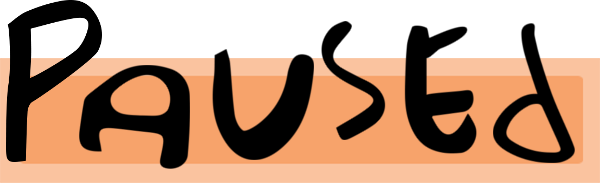
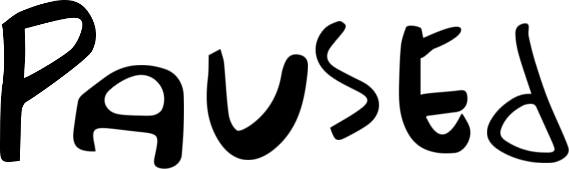
Updated game menu buttons for shipment

diff --git a/core/src/com/fworg64/duckpond/game/GameScreen.java b/core/src/com/fworg64/duckpond/game/GameScreen.java
@@ -29,8 +29,6 @@ public class GameScreen extends ScreenAdapter
     public final static float SWYPE_ARROW_SCALE = 1.6f;
     enum Menus {PAUSEMENU, GMVICTORY, GMLOSE, PLAYING};
 
-    public static int BOXOUTER_X;
-    public static int BOXOUTER_Y;
     public static int PAUSETITLE_X;
     public static int PAUSETITLE_Y;
     public static int GOLTITLE_X;
@@ -165,13 +163,11 @@ public class GameScreen extends ScreenAdapter
 
         if (Options.highres)
         {
-            BOXOUTER_X = 200;
-            BOXOUTER_Y = 1920 - 1700;
-            PAUSETITLE_X = 250;
-            PAUSETITLE_Y = 1920 - 500;
+            PAUSETITLE_X = 255;
+            PAUSETITLE_Y = 1920 - 800;
             GOLTITLE_X = 250;
             GOLTITLE_Y = 1920 - 1100;
-            GOVTITLE_X = 250;
+            GOVTITLE_X = 190;
             GOVTITLE_Y = 1920 -1100;
 
             HUDarea = new Rectangle(0, Options.screenHeight-Options.GUIHeight, Options.screenWidth, Options.GUIHeight);
@@ -179,53 +175,57 @@ public class GameScreen extends ScreenAdapter
             livesarea = new Rectangle(399, Options.screenHeight-Options.GUIHeight,216, 152 );
             mutebutt = new Rectangle(305, 1920-214, 133, 158);
 
-            PAUSEUnpauseButt        = new Button(400,   1920-800,   478,    122,    Assets.GameContinue);
-            PAUSERestartButt        = new Button(400,   1920-1000,  435,    111,    Assets.GameRestart);
-            PAUSELevelSelectionButt = new Button(400,   1920-1200,  428,    104,    Assets.GameQuit);
+            PAUSEUnpauseButt        = new Button(330,   1920-1000,   420, 100,    Assets.GameMenuButt);
+            PAUSERestartButt        = new Button(330,   1920-1200,  420, 100,    Assets.GameMenuButt);
+            PAUSELevelSelectionButt = new Button(330,   1920-1400,  420, 100,    Assets.GameMenuButt);
 
-            GOVLevelSelection = new Button(350,     1920 - 1300,     578, 147,   Assets.GameLevelSelect);
+            GOVLevelSelection = new Button(330,     1920 - 1300,     420, 100,      Assets.GameMenuButt);
+            GOLLevelSelection = new Button(330,     1920 - 1500,     420, 100,       Assets.GameMenuButt);
+            GOLrestart        = new Button(330,     1920 - 1300,     420, 100,      Assets.GameMenuButt);
 
-            GOLLevelSelection = new Button(350,     1920 - 1400,    578, 147,   Assets.GameLevelSelect);
-            GOLrestart        = new Button(350,     1920 - 1100,     435, 111,   Assets.GameTryAgain);
+            playbutt = new Button(316, 800, 420, 200, Assets.GamePlay);
 
-            playbutt = new Button(400, 800, 200, 100, Assets.GamePlay);
-
-            TIME_RENDER_X = 7;
+            TIME_RENDER_X = 17;
             TIME_RENDER_Y = 1920 - 310;
-            LEVELNAME_RENDER_X = 500;
+            LEVELNAME_RENDER_X = 530;
             LEVELNAME_RENDER_Y = 1920-150;
         }
         else
         {
-            BOXOUTER_X = 150;
-            BOXOUTER_Y = 960 - 800;
-            PAUSETITLE_X = 200;
-            PAUSETITLE_Y = 960 - 500;
-            GOLTITLE_X = 200;
-            GOLTITLE_Y = 960 - 500;
-            GOVTITLE_X = 200;
-            GOVTITLE_Y = 960 - 500;
+            PAUSETITLE_X = 178;
+            PAUSETITLE_Y = 960 - 400;
+            GOLTITLE_X = 173;
+            GOLTITLE_Y = 960 - 400;
+            GOVTITLE_X = 145;
+            GOVTITLE_Y = 960 - 400;
 
             HUDarea = new Rectangle(0, Options.screenHeight-Options.GUIHeight, Options.screenWidth, Options.GUIHeight);
             pausebutt = new Rectangle(0,960-93,93, 93);
             livesarea = new Rectangle(407,Options.screenHeight-Options.GUIHeight,74 , 42 );
             mutebutt = new Rectangle(117, 960-73, 42, 48);
 
-            PAUSEUnpauseButt        = new Button(115, 350,  415, 120, Assets.GameContinue);
-            PAUSERestartButt        = new Button(115, 220,  415, 120, Assets.GameRestart);
-            PAUSELevelSelectionButt = new Button(115, 90,   415, 120 , Assets.GameQuit);
+            PAUSEUnpauseButt        = new Button(195, 960-480,  250, 50,    Assets.GameMenuButt);
+            PAUSERestartButt        = new Button(195, 960-565,  250, 50,    Assets.GameMenuButt);
+            PAUSELevelSelectionButt = new Button(195, 960-650,   250, 50,    Assets.GameMenuButt);
 
-            GOVLevelSelection = new Button(115, 350, 340, 86, Assets.GameLevelSelect);
-            GOLLevelSelection = new Button(115, 220, 340, 86, Assets.GameLevelSelect);
-            GOLrestart        = new Button(115, 350, 344, 114, Assets.GameTryAgain);
+            GOVLevelSelection = new Button(195, 960-480, 250, 50,           Assets.GameMenuButt);
+            GOLLevelSelection = new Button(195, 960-565, 250, 50,           Assets.GameMenuButt);
+            GOLrestart        = new Button(195, 960-480, 250, 50,           Assets.GameMenuButt);
 
-            playbutt = new Button(300, 300, 150, 75, Assets.GamePlay);
+            playbutt = new Button(188, 960-600, 263, 75, Assets.GamePlay);
 
-            TIME_RENDER_X = 400;
-            TIME_RENDER_Y = 960 - 20; //top left?
-            LEVELNAME_RENDER_X = 202;
+            TIME_RENDER_X = 410;
+            TIME_RENDER_Y = 960 - 15; //top left?
+            LEVELNAME_RENDER_X = 208;
             LEVELNAME_RENDER_Y = 960-50;
         }
+
+        PAUSEUnpauseButt.setButttext        ("Continue");
+        PAUSERestartButt.setButttext        ("Restart");
+        PAUSELevelSelectionButt.setButttext ("Quit");
+        GOVLevelSelection.setButttext       ("Hooray!");
+        GOLLevelSelection.setButttext       ("Aw, ok.");
+        GOLrestart.setButttext              ("Try Again");
 
         gameoverRunTime = TIME_TO_RUN_AFTER_GAMEOVER_LOSE;
         if (Gdx.app.getType() == Application.ApplicationType.Android) this.game.adStateListener.HideBannerAd();

diff --git a/core/src/com/fworg64/duckpond/game/Assets.java b/core/src/com/fworg64/duckpond/game/Assets.java
@@ -76,14 +76,10 @@ public class Assets
     public static Texture HUDlives;
 
     public static Texture GamePaused;
-    public static Texture GameContinue;
-    public static Texture GameRestart;
-    public static Texture GameQuit;
     public static Texture GameVictory;
     public static Texture GameDefeat;
-    public static Texture GameLevelSelect;
-    public static Texture GameTryAgain;
     public static Texture GamePlay;
+    public static Texture GameMenuButt;
 
     private static Texture duck;
     private static TextureRegion[][] duckframes;
@@ -192,14 +188,10 @@ public class Assets
         HUDUnmute = new Texture(Gdx.files.internal(res + "gamescreen\\unmute.png"));
         HUDlives = new Texture(Gdx.files.internal(res + "gamescreen\\lives.png"));
         GamePaused      = new Texture(Gdx.files.internal(res + "gamescreen\\paused.png"));
-        GameContinue    = new Texture(Gdx.files.internal(res + "gamescreen\\continue.png"));
-        GameRestart     = new Texture(Gdx.files.internal(res + "gamescreen\\restart.png"));
-        GameQuit        = new Texture(Gdx.files.internal(res + "gamescreen\\quit.png"));
         GameVictory     = new Texture(Gdx.files.internal(res + "gamescreen\\youwon.png"));
         GameDefeat      = new Texture(Gdx.files.internal(res + "gamescreen\\youlost.png"));
-        GameLevelSelect = new Texture(Gdx.files.internal(res + "gamescreen\\levelselect.png"));
-        GameTryAgain    = new Texture(Gdx.files.internal(res + "gamescreen\\tryagain.png"));
         GamePlay        = new Texture(Gdx.files.internal(res + "gamescreen\\play.png"));
+        GameMenuButt    = new Texture(Gdx.files.internal(res + "gamescreen\\menubutt.png"));
 
         duck = new Texture(Gdx.files.internal(res + "gamescreen\\duck.png"));
         duckframes = TextureRegion.split(duck, Options.spriteWidth,Options.spriteHeight);
@@ -266,14 +258,10 @@ public class Assets
         HUDUnmute.dispose();
         HUDlives.dispose();
         GamePaused.dispose();
-        GameContinue.dispose();
-        GameRestart.dispose();
-        GameQuit.dispose();
         GameVictory.dispose();
         GameDefeat.dispose();
-        GameLevelSelect.dispose();
-        GameTryAgain.dispose();
         GamePlay.dispose();
+        GameMenuButt.dispose();
 
         duck.dispose();
         lily.dispose();

diff --git a/core/src/com/fworg64/duckpond/game/Button.java b/core/src/com/fworg64/duckpond/game/Button.java
@@ -3,6 +3,7 @@ package com.fworg64.duckpond.game;
 import com.badlogic.gdx.Gdx;
 import com.badlogic.gdx.graphics.Color;
 import com.badlogic.gdx.graphics.Texture;
+import com.badlogic.gdx.graphics.g2d.GlyphLayout;
 import com.badlogic.gdx.graphics.g2d.SpriteBatch;
 import com.badlogic.gdx.graphics.g2d.TextureRegion;
 import com.badlogic.gdx.graphics.glutils.ShapeRenderer;
@@ -24,6 +25,7 @@ public class Button {
 
     private boolean available;
     private String butttext;
+    GlyphLayout glyphLayout;
 
     private TextureRegion texture; //the texture to be drawn
 
@@ -132,7 +134,9 @@ public class Button {
         this.available = available;
     }
     public void setButttext(String butttext) {
+
         this.butttext = butttext;
+        glyphLayout = new GlyphLayout(Assets.font, butttext);
     }
     public boolean isJustPressed() {
         return justpressed;
@@ -145,8 +149,8 @@ public class Button {
         if (pressed || wasPressed) batch.setColor(dimmingColor);
         else if (!available) batch.setColor(unavailableColor);
         else batch.setColor(1f,1f,1f,1f);
-        batch.draw(texture, bounds.getX(), bounds.getY(), bounds.getWidth(), bounds.getHeight());
-        if (!butttext.equals("")) Assets.font.draw(batch, butttext, bounds.getX(), bounds.getY() + .8f * bounds.getHeight());
+        batch.draw(texture, bounds.getX(), bounds.getY());
+        if (!butttext.equals("")) Assets.font.draw(batch, butttext, bounds.getX() + bounds.getWidth()*.5f - glyphLayout.width*.5f, bounds.getY() + bounds.getHeight()*.5f + .5f*glyphLayout.height);
         if (pressed || wasPressed || !available) batch.setColor(1f,1f,1f,1f);
         //batch.end();
     }

diff --git a/core/src/com/fworg64/duckpond/game/LevelSelectionScreen.java b/core/src/com/fworg64/duckpond/game/LevelSelectionScreen.java
@@ -72,8 +72,6 @@ public class LevelSelectionScreen extends ScreenAdapter
             WORLDMAKER_Y = 22;
             WORLDMAKER_W = 381;
             WORLDMAKER_H = 218;
-
-
         }
         else
         {
